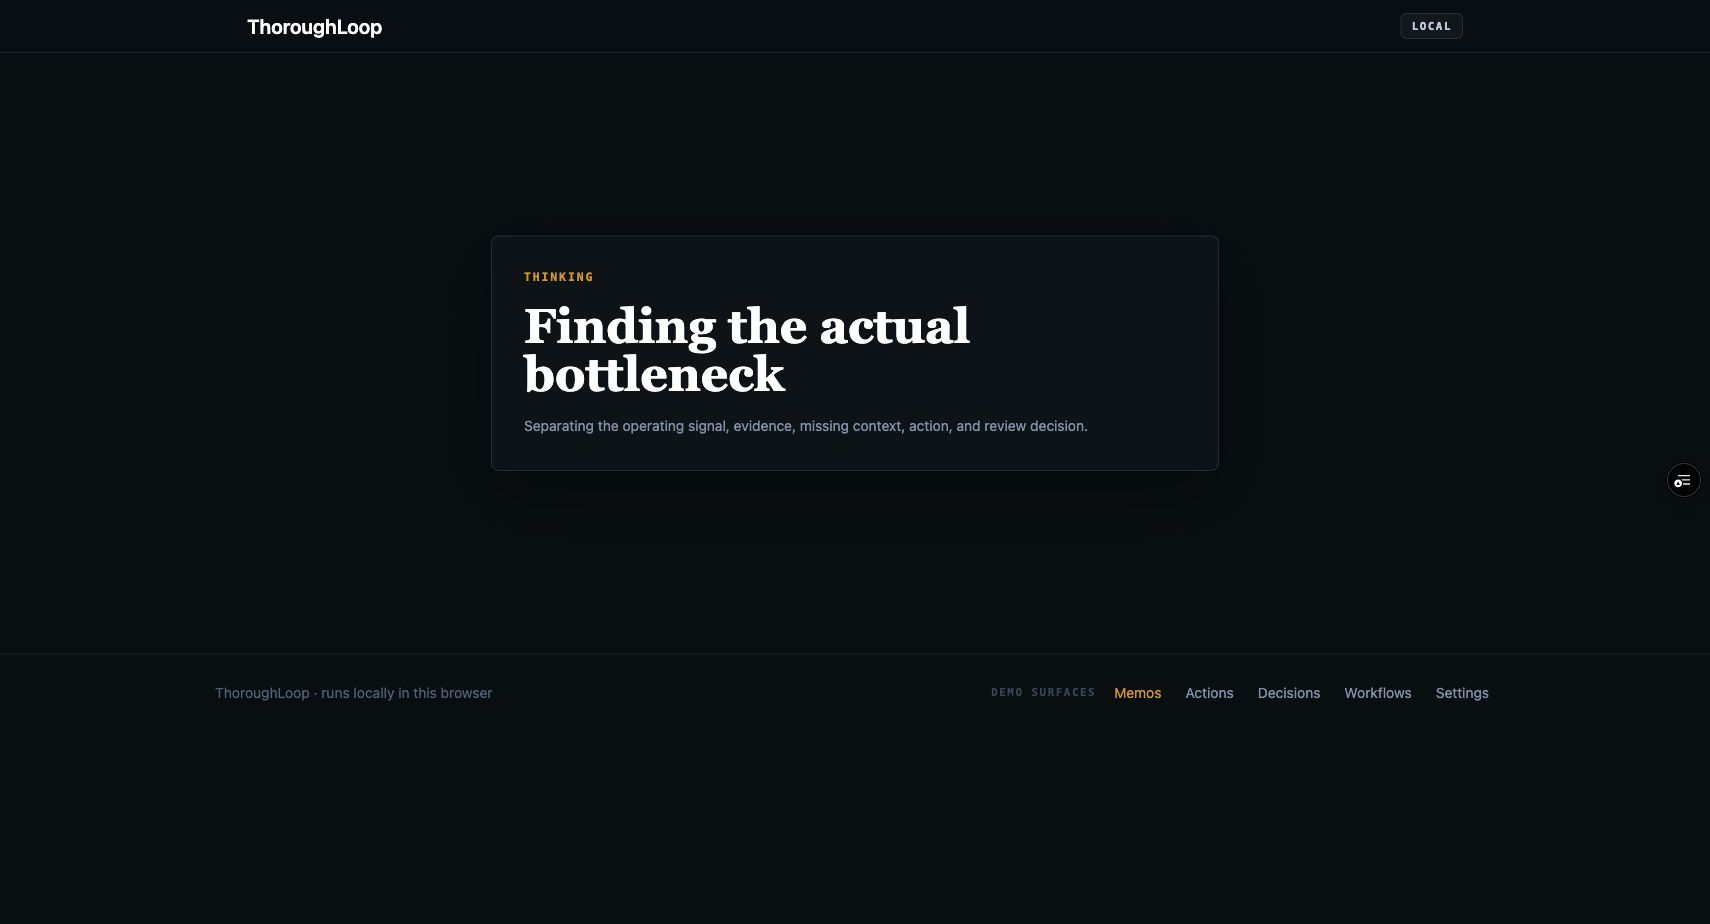
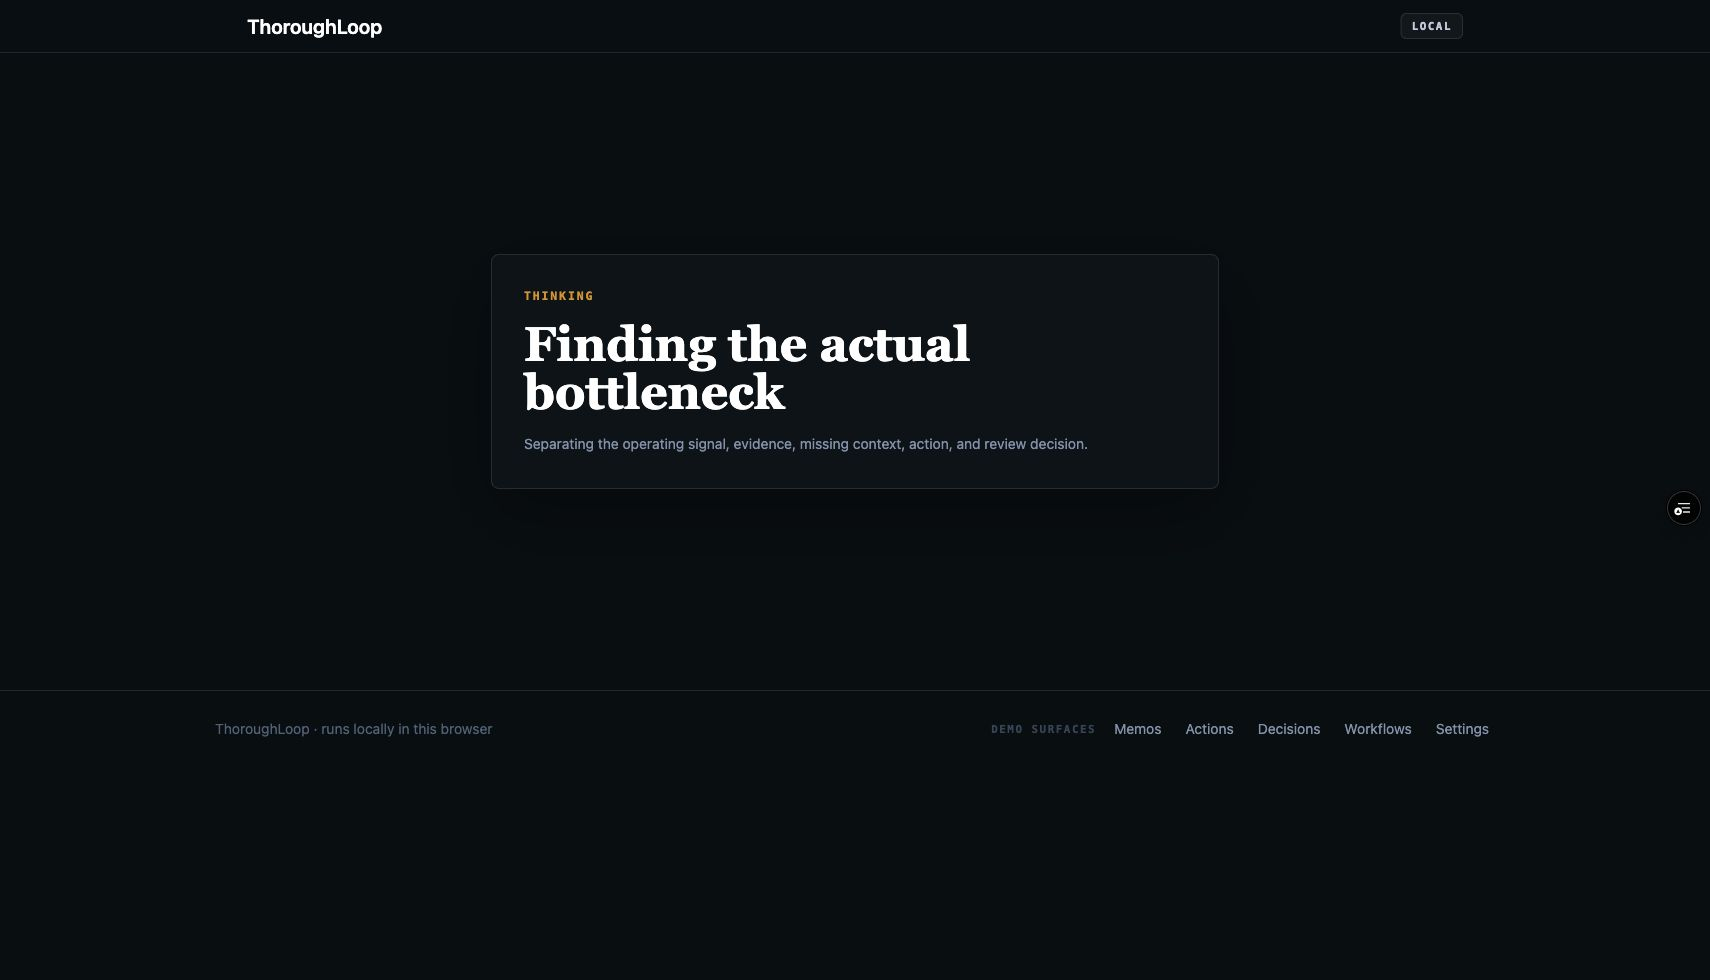
docs: tighten founder-facing positioning and demo safety
- Add Why Not Just Use ChatGPT positioning
- Add When To Use ThoroughLoop section
- Add public demo safety warning
- Clarify Notion source labels, export, import, sync, and persistence boundaries
- Consolidate validation resources for portfolio review
- Refresh walkthrough screenshots from PR preview

diff --git a/apps/web/e2e/core-loop.spec.ts b/apps/web/e2e/core-loop.spec.ts
@@ -14,6 +14,7 @@ test("founder can complete the ThoroughLoop browser loop", async ({ page }) => {
   await page.getByLabel("Where is this context coming from?").selectOption("notion");
   await expect(page.getByText("Paste the relevant Notion notes, decisions, or project context.")).toBeVisible();
   await expect(page.getByText("Manual import only. ThoroughLoop does not connect to external tools yet.")).toBeVisible();
+  await expect(page.getByText("Public demo note: use fictional or sanitized context. Avoid confidential production data.")).toBeVisible();
   await page.getByTestId("context-source-select").selectOption("slack");
   await expect(page.getByText("Paste the relevant Slack messages or thread summary.")).toBeVisible();
   await page.getByTestId("messy-context-input").fill(messyFounderContext);

diff --git a/apps/web/src/components/HomeLoop.tsx b/apps/web/src/components/HomeLoop.tsx
@@ -667,6 +667,9 @@ function Compose({
         <span className="font-mono text-[0.72rem] font-semibold uppercase tracking-[0.16em] text-slate-400">
           Founder context
         </span>
+        <p className="text-sm leading-6 text-slate-500">
+          Public demo note: use fictional or sanitized context. Avoid confidential production data.
+        </p>
         <textarea
           ref={textareaRef}
           data-testid="messy-context-input"

diff --git a/README.md b/README.md
@@ -72,12 +72,28 @@ Early-stage founders often have the context they need, but it is split across ca
 
 ThoroughLoop is designed to close the loop from messy context to action and review. It is not trying to become another PM system, CRM, dashboard, or Notion workspace.
 
+## Why Not Just Use ChatGPT?
+
+ChatGPT can summarize messy context. ThoroughLoop is designed to turn messy context into a repeatable operating loop: source, diagnosis, evidence, action, decision, and review.
+
+The current product is intentionally narrower than a general chat tool. It is built for founder/operator moments where the problem is not generating more text, but deciding what the operating bottleneck is and what should be reviewed later.
+
 ## Who This Is For
 
 - Early-stage founders with scattered sales, product, customer, hiring, or investor context.
 - Founder's Office and BizOps operators supporting founder-led teams.
 - Operators trying to convert messy updates into decisions and follow-ups.
 - Teams before they have mature RevOps, BizOps, or operating cadence.
+
+## When To Use ThoroughLoop
+
+- A sales pipeline feels stuck but the reason is unclear.
+- Customer feedback is noisy and scattered.
+- Product requirements keep shifting before handoff.
+- Hiring follow-ups are drifting.
+- Investor update context is scattered across notes and metrics.
+- Weekly priorities feel unclear.
+- A founder needs one action and one decision to revisit later.
 
 ## Before And After
 
@@ -107,6 +123,8 @@ After ThoroughLoop:
 6. The decision can be reviewed later.
 
 Users can label where pasted context came from, such as Slack, Notion, CRM notes, meeting notes, customer feedback, or requirements handoffs. ThoroughLoop does not read from or update external tools yet.
+
+A Notion source label means manually pasted Notion context. It is not Notion import or sync.
 
 The current diagnosis and memo behavior is deterministic product logic in `packages/core`. It does not call an AI provider or external model.
 
@@ -142,7 +160,7 @@ See [examples/](examples/) for realistic fictional sample inputs and outputs.
 
 ## Try The Demo
 
-No login is required. Demo data is stored locally in the browser.
+No login is required. Demo data is stored locally in the browser. Use fictional or sanitized context, not confidential production data.
 
 1. Open the [live demo](https://thoroughloop.vercel.app).
 2. Paste messy founder context or choose a sample.
@@ -171,9 +189,9 @@ For a slightly longer manual path, see [docs/demo-walkthrough.md](docs/demo-walk
 - Workflow-specific loops on `/workflows`.
 - Local founder context defaults on `/settings`.
 - Public-safe intake and webhook examples in [docs/demo/api-and-webhook-demo.md](docs/demo/api-and-webhook-demo.md).
-- Optional Notion export setup in [docs/notion-export.md](docs/notion-export.md), which requires explicit environment configuration and is not the app's persistence layer.
+- Optional Notion export setup in [docs/notion-export.md](docs/notion-export.md), which requires explicit environment configuration, sends generated memos out to Notion, and is not import, sync, or the app's persistence layer.
 
-## Founder Validation Resources
+## For Validation And Portfolio Review
 
 These docs support early feedback conversations. They do not claim validation has happened.
 
@@ -184,16 +202,13 @@ These docs support early feedback conversations. They do not claim validation ha
 - [Founder learning journal](docs/founder-learning-journal.md).
 - [Demo script](docs/demo-script.md).
 - [Outreach message bank](docs/founder-outreach-message-bank.md).
-
-Supporting materials: [founder-facing audit](docs/founder-facing-audit.md) and [example founder loops](examples/).
-
-## Validation Evidence Resources
-
 - [Founder evidence repository](docs/founder-evidence-repository.md).
 - [Founder signal tracker](docs/founder-signal-tracker.md).
 - [Founder objection library](docs/founder-objection-library.md).
 - [Founder language bank](docs/founder-language-bank.md).
 - [Founder validation retrospective template](docs/founder-validation-retrospective-template.md).
+
+Supporting materials: [founder-facing audit](docs/founder-facing-audit.md) and [example founder loops](examples/).
 
 ## What This Project Demonstrates
 

diff --git a/docs/privacy-local-data.md b/docs/privacy-local-data.md
@@ -29,6 +29,8 @@ Pasted founder context in the main browser loop is processed locally in the app 
 
 Source-aware import is manual labeling only. A user can choose a label such as Slack thread or channel notes, Notion page or workspace notes, CRM or sales pipeline notes, customer feedback, meeting notes, product requirements or handoff notes, hiring follow-up notes, or other. ThoroughLoop does not request or store external tool access tokens.
 
+A Notion source label means manually pasted Notion context. It does not import from Notion, sync with Notion, or use Notion as the app's persistence layer.
+
 ## Local Storage Boundary
 
 Saved data is device-specific. Clearing browser storage may remove saved memos, founder actions, decisions, and settings.
@@ -39,7 +41,9 @@ Optional Notion export requires explicit environment configuration and user acti
 
 ## Public Demo Guidance
 
-Avoid pasting sensitive production data into public demos, screenshots, bug reports, or issues. Use synthetic examples from `docs/demo-examples.md` when possible.
+The public demo is intended for fictional or sanitized context. Avoid pasting confidential production data into public demos, screenshots, bug reports, or issues.
+
+Source labels and saved loops remain local according to the current browser storage boundary. Use synthetic examples from `docs/demo-examples.md` when possible.
 
 ## Compliance Boundary
 

diff --git a/docs/source-aware-context-import.md b/docs/source-aware-context-import.md
@@ -19,11 +19,15 @@ This is not a live integration layer.
 ThoroughLoop does not currently:
 
 - Read from Slack, Notion, CRM systems, Gmail, Linear, Jira, or external tools.
+- Import from Notion.
+- Sync with Notion.
 - Pull messages, pages, notes, tickets, or records automatically.
 - Request OAuth access.
 - Store external access tokens.
 - Run background ingestion.
 - Store saved loops in a production database.
+
+A Notion source label means the user manually pasted Notion notes into the compose field. Optional Notion export, if configured separately, is outbound export only. It is not Notion import, Notion sync, or app persistence.
 
 ## Supported Source Labels
 
@@ -54,6 +58,8 @@ The selected label is stored as loop metadata when the user saves the loop.
 Source labels are stored locally with saved memos, founder actions, and decisions through the existing browser storage flow.
 
 Pasted context remains part of the current local-first browser workflow unless a user explicitly uses an API, webhook, or optional export route. Source labels do not create external access or external storage.
+
+The public demo is intended for fictional or sanitized context. Users should avoid pasting confidential production data.
 
 ## Future Integration Candidates
 

diff --git a/docs/architecture.md b/docs/architecture.md
@@ -72,6 +72,8 @@ The main browser loop lets a user manually label where pasted context came from 
 
 This source label is metadata on the diagnosis, memo, founder action, and decision records. It does not change the local-first storage boundary, and it does not create provider ingestion, OAuth, background sync, or automatic extraction from external tools.
 
+A Notion source label means manually pasted Notion context. Optional Notion export sends a generated memo out to a configured Notion database, but ThoroughLoop does not import from Notion, sync with Notion, or use Notion as the saved-loop persistence layer.
+
 Saved loops created before this field existed remain valid because `contextSource` is optional on saved records. Rendering code falls back to General founder notes when the field is absent.
 
 ## Why No Production Persistence Yet

diff --git a/docs/notion-export.md b/docs/notion-export.md
@@ -4,6 +4,8 @@
 
 ThoroughLoop lets founders export a generated founder memo directly to a Notion database with one click. The integration uses the Notion API v1 via a server-side Next.js API route so credentials never reach the browser.
 
+This is outbound export only. ThoroughLoop does not import from Notion, sync with Notion, read Notion pages, use Notion as the app's persistence layer, or request external provider OAuth in the public MVP.
+
 ## Environment variables
 
 | Variable            | Description                                      | Required |
